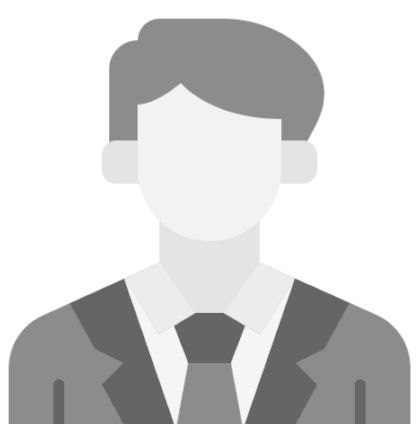
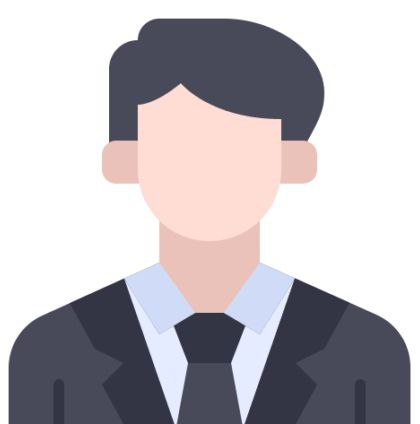
team member img

diff --git a/index.html b/index.html
@@ -356,7 +356,7 @@
           <div class="row row-sm row-30 justify-content-center">
             <div class="col-md-6 col-lg-5 col-xl-3 wow fadeInRight">
               <!-- Team Classic-->
-              <article class="team-classic team-classic-lg"><a class="team-classic-figure" href="#"><img src="images/team-11-420x424.jpg" alt="" width="420" height="424"/></a>
+              <article class="team-classic team-classic-lg"><a class="team-classic-figure" href="#"><img src="images/team-member.jpg" alt="" width="420" height="424"/></a>
                 <div class="team-classic-caption">
                   <h4 class="team-classic-name"><a href="#">Joyant Sheikhar</a></h4>
                   <p class="team-classic-status">Software Developer</p>
@@ -365,7 +365,7 @@
             </div>
             <div class="col-md-6 col-lg-5 col-xl-3 wow fadeInRight" data-wow-delay=".1s">
               <!-- Team Classic-->
-              <article class="team-classic team-classic-lg"><a class="team-classic-figure" href="#"><img src="images/team-12-420x424.jpg" alt="" width="420" height="424"/></a>
+              <article class="team-classic team-classic-lg"><a class="team-classic-figure" href="#"><img src="images/team-member.jpg" alt="" width="420" height="424"/></a>
                 <div class="team-classic-caption">
                   <h4 class="team-classic-name"><a href="#">Sahid Ahmed</a></h4>
                   <p class="team-classic-status">UI Designer & App developer</p>
@@ -374,16 +374,16 @@
             </div>
             <div class="col-md-6 col-lg-5 col-xl-3 wow fadeInRight" data-wow-delay=".2s">
               <!-- Team Classic-->
-              <article class="team-classic team-classic-lg"><a class="team-classic-figure" href="#"><img src="images/team-13-420x424.jpg" alt="" width="420" height="424"/></a>
+              <article class="team-classic team-classic-lg"><a class="team-classic-figure" href="#"><img src="images/team-member.jpg" alt="" width="420" height="424"/></a>
                 <div class="team-classic-caption">
                   <h4 class="team-classic-name"><a href="#">Navid Zaman Khan</a></h4>
-                  <p class="team-classic-status">Web Developer</p>
+                  <p class="team-classic-status">back-end Developer</p>
                 </div>
               </article>
             </div>
             <div class="col-md-6 col-lg-5 col-xl-3 wow fadeInRight" data-wow-delay=".3s">
               <!-- Team Classic-->
-              <article class="team-classic team-classic-lg"><a class="team-classic-figure" href="#"><img src="images/team-14-420x424.jpg" alt="" width="420" height="424"/></a>
+              <article class="team-classic team-classic-lg"><a class="team-classic-figure" href="#"><img src="images/team-member.jpg" alt="" width="420" height="424"/></a>
                 <div class="team-classic-caption">
                   <h4 class="team-classic-name"><a href="#">Hasan Sumon</a></h4>
                   <p class="team-classic-status">Digital Marketing Specialist</p>
